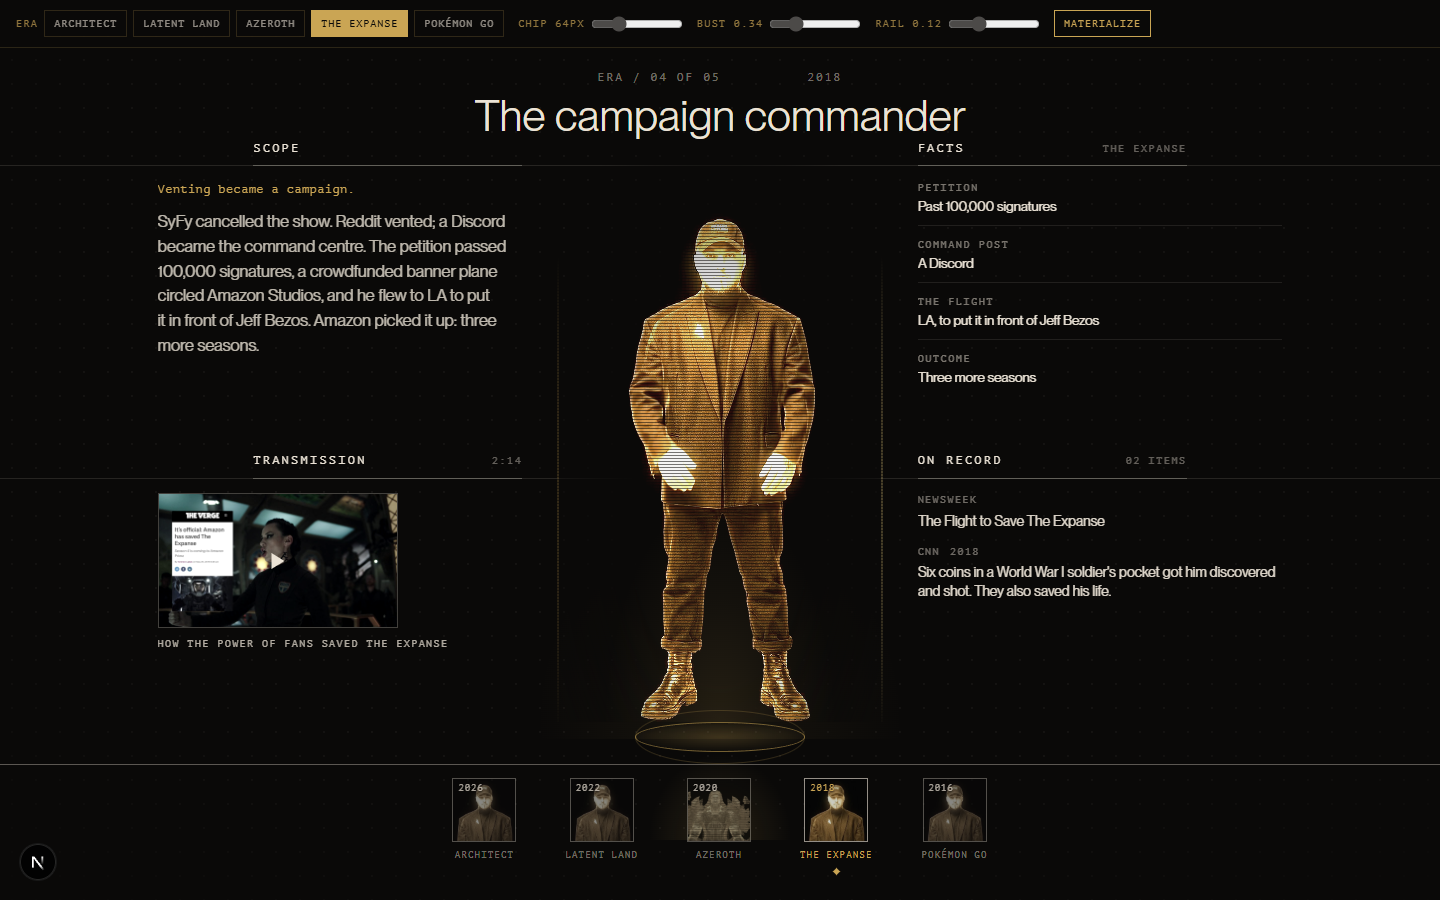
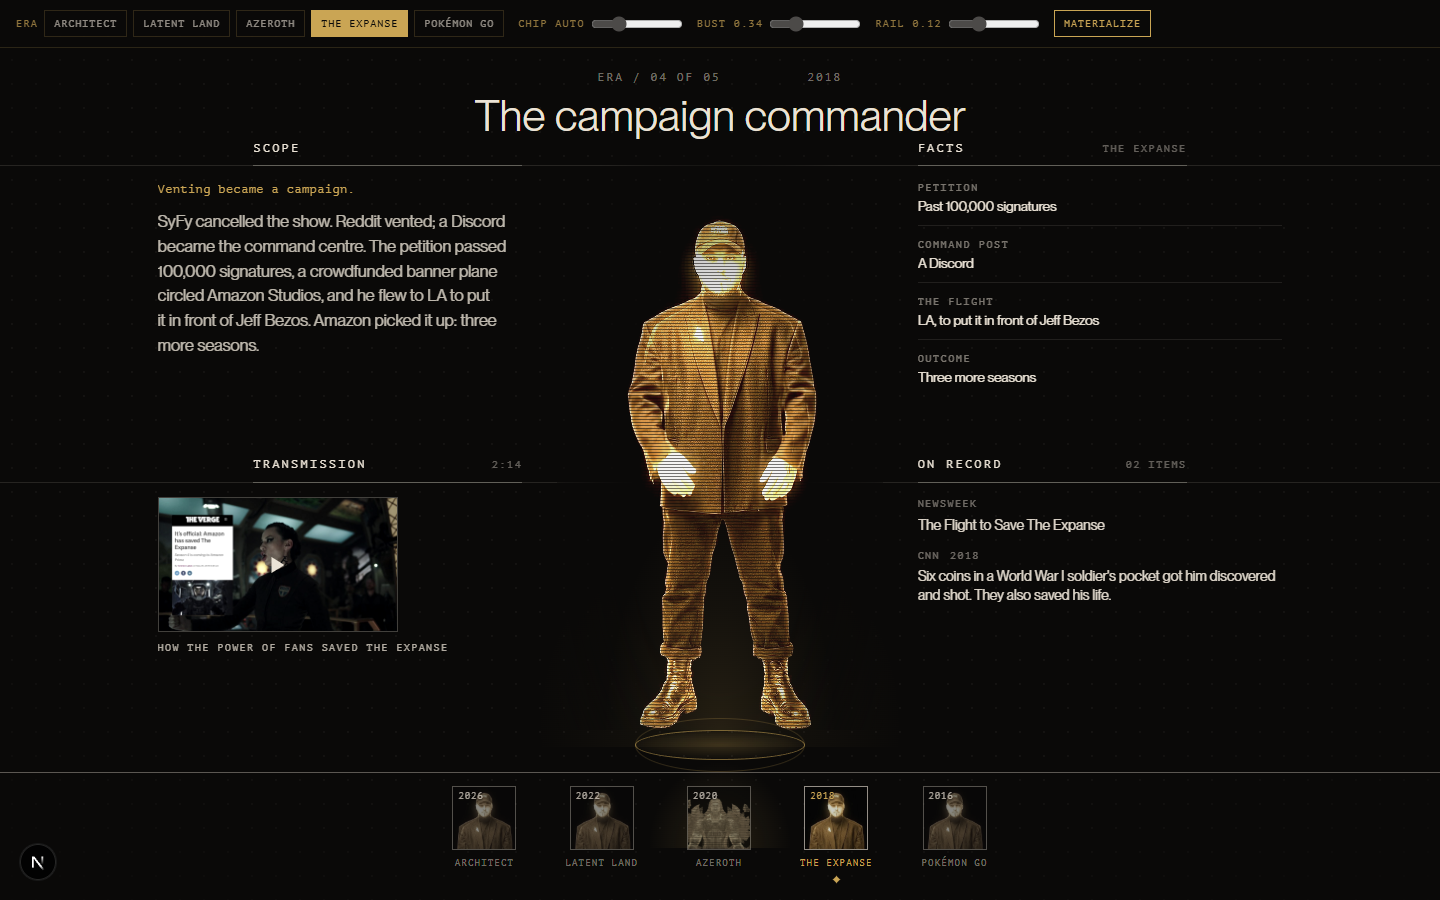
feat(voidwalker): the figure stop is a mark, so the phone stops saying it twice
Owner, on the four-tab phone cut: "do we need those tabs above if we have
corresponding avatars at the bottom?" They were never redundant — the band
picks WHICH ERA, the row picks WHAT YOU READ about it, and deleting either
makes something unreachable (the Pip-Boy reference carries both axes for
the same reason). But both were drawn as a full-width row of equal cells
with a gold active state and a gold marker, so they RHYMED and read as one
control stated twice. The logic was sound and the form was wrong.

FIGURE becomes a drawn mark set apart from three words. A glyph beside
RECORD · SCOPE · TRANSMISSION is plainly not another row of stops, and the
three words are then unambiguously readings. The mark is on the house
particle-icon grammar — rect-only, a 7×7 grid at integer cells, 14px
compact rung, no pictogram — and it draws the figure over its projector
plane, with the DISC carrying the gold because the disc is what is gold on
the stage itself. ⚠ A whole cell of air under the head: packed into
consecutive rows the rects merge into a blob at 14px.

⚠ SELECTING AN ERA DOES NOT RESET THE VIEW. The tighter idea was to drop
the figure stop entirely and let the band mean "show me this era's
figure", but switching era while reading RECORD would then throw the
reading away — and comparing one reading across eras is what a five-stop
band is FOR. The band changes who, the row changes what, the glyph is the
standing way back.
[…]

diff --git a/app/(internal)/test/voidwalker-datum-lab/DatumLabShell.tsx b/app/(internal)/test/voidwalker-datum-lab/DatumLabShell.tsx
@@ -75,8 +75,49 @@ function bustHeadAnchor(hologram: CharacterEraHologram): number {
    no use for this state at all, which is why it is CSS that decides whether
    the tabs mean anything (ADR-083: keep every node mounted, phone
    visibility is a stylesheet decision). */
-const MOBILE_TABS = ["figure", "record", "scope", "transmission"] as const;
-type MobileTab = (typeof MOBILE_TABS)[number];
+/* ⚠ THE FIGURE STOP IS A MARK, THE OTHER THREE ARE WORDS, AND THAT IS THE
+   POINT (owner, 2026-08-31: "do we need those tabs above if we have
+   corresponding avatars at the bottom?"). They were never redundant — the
+   band picks WHICH ERA, the row picks WHAT YOU READ about it — but both were
+   drawn as a full-width row of equal cells with a gold active state, so they
+   rhymed and read as one control said twice. Setting the figure apart as a
+   glyph breaks that: a mark beside three words is plainly not another row of
+   stops, and the three words are then unambiguously READINGS.
+
+   ⚠ SELECTING AN ERA DOES NOT RESET THE VIEW, deliberately. The tighter
+   version of this idea was to drop the figure stop entirely and let the band
+   mean "show me this era's figure" — but then switching era while reading
+   RECORD would throw the reading away, and comparing the same reading across
+   eras is the thing a five-stop band is FOR. The band changes who, the row
+   changes what, and the glyph is the standing way back. */
+const MOBILE_READINGS = ["record", "scope", "transmission"] as const;
+type MobileTab = "figure" | (typeof MOBILE_READINGS)[number];
+
+/**
+ * The figure mark: a standing figure over its projector plane, on the
+ * particle-icon grammar (`thoughtform-design/references/particle-icon-grammar.md`)
+ * — rect-only, a 7×7 grid at integer cells, no text node, no pictogram.
+ * The DISC carries the signal because the disc is the gold object on the real
+ * stage; the body is skeleton. 14px is the grammar's compact rung, and the
+ * 2× viewBox keeps every edge on a device pixel.
+ */
+function FigureGlyph() {
+  return (
+    <svg className="vdl__tab__glyph" viewBox="0 0 7 7" width="14" height="14" aria-hidden="true">
+      {/* head · shoulders · torso · legs — the skeleton. ⚠ A WHOLE CELL OF
+          AIR UNDER THE HEAD: packed into consecutive rows the five rects
+          merge into one blob at 14px and the figure stops being readable as
+          a figure. */}
+      <rect className="vdl__tab__sk" x="3" y="0" width="1" height="1" />
+      <rect className="vdl__tab__sk" x="2" y="2" width="3" height="1" />
+      <rect className="vdl__tab__sk" x="3" y="3" width="1" height="1" />
+      <rect className="vdl__tab__sk" x="2" y="4" width="1" height="1" />
+      <rect className="vdl__tab__sk" x="4" y="4" width="1" height="1" />
+      {/* the projector plane — the signal */}
+      <rect className="vdl__tab__sig" x="1" y="6" width="5" height="1" />
+    </svg>
+  );
+}
 
 function PressItem({ press }: { press: VwPress }) {
   const year = press.date ? press.date.slice(0, 4) : null;
@@ -102,7 +143,14 @@ export function DatumLabShell() {
      every mockup in the pass — so the lab opens where the review left off. */
   const [eraIdx, setEraIdx] = useState(2);
   const [epoch, setEpoch] = useState(0);
-  const [chip, setChip] = useState(64);
+  /* ⚠ NULL UNTIL TOUCHED, because an inline style beats every stylesheet
+     rule including a media query. Seeded at 64 the knob wrote
+     `--vdl-chip: 64px` onto the root on first paint and the phone rung's own
+     `clamp(44px, 13vw, 56px)` never applied — the band rendered at desktop
+     size on a 375px screen, which is the exact thing the slider exists to
+     let the owner judge. A lab knob may not defeat the default it is there
+     to explore. */
+  const [chip, setChip] = useState<number | null>(null);
   const [rail, setRail] = useState(0.12);
   const [bust, setBust] = useState(0.34);
   const [tab, setTab] = useState<MobileTab>("figure");
@@ -148,7 +196,7 @@ export function DatumLabShell() {
       className="vdl"
       style={
         {
-          "--vdl-chip": `${chip}px`,
+          ...(chip === null ? null : { "--vdl-chip": `${chip}px` }),
           "--vdl-rail": rail,
           "--vdl-bust-span": bust,
         } as React.CSSProperties
@@ -171,13 +219,13 @@ export function DatumLabShell() {
         </div>
 
         <label className="vdl__slider">
-          <span className="vdl__lbl">chip {chip}px</span>
+          <span className="vdl__lbl">chip {chip === null ? "auto" : `${chip}px`}</span>
           <input
             type="range"
             min={44}
             max={120}
             step={2}
-            value={chip}
+            value={chip ?? 64}
             onChange={(ev) => setChip(+ev.target.value)}
           />
         </label>
@@ -232,7 +280,21 @@ export function DatumLabShell() {
             No icon chits: they were the heaviest thing on the phone mockup
             and this row has to be the quietest. */}
         <nav className="vdl__tabs" aria-label="Era view">
-          {MOBILE_TABS.map((t) => {
+          {/* The mark, outside the word group. Its accessible name is spoken
+              because a glyph has none — the visual differentiation may not
+              cost a screen reader the label. */}
+          <button
+            type="button"
+            className="vdl__tab vdl__tab--figure"
+            data-on={tab === "figure"}
+            aria-pressed={tab === "figure"}
+            aria-label="Figure"
+            onClick={() => setTab("figure")}
+          >
+            <FigureGlyph />
+          </button>
+
+          {MOBILE_READINGS.map((t) => {
             const unavailable = t === "transmission" && !era.film;
             return (
               <button

diff --git a/app/(internal)/test/voidwalker-datum-lab/voidwalker-datum-lab.css b/app/(internal)/test/voidwalker-datum-lab/voidwalker-datum-lab.css
@@ -640,13 +640,42 @@ a.vdl__press:focus-visible .vdl__press__headline {
     text-wrap: balance;
   }
 
+  /* ⚠ THE MARK TAKES ITS OWN WIDTH, THE WORDS SHARE THE REST. Four equal
+     cells is what made this row rhyme with the era band below it; a narrow
+     glyph cell followed by three equal labels reads as one thing set apart
+     from a group of three, which is what it is. */
   .vdl__tabs {
     display: grid;
-    grid-auto-flow: column;
-    grid-auto-columns: 1fr;
+    grid-template-columns: auto repeat(3, minmax(0, 1fr));
     flex: 0 0 auto;
     border-top: 1px solid rgba(var(--vdl-dawn-rgb), var(--vdl-rail));
     border-bottom: 1px solid rgba(var(--vdl-dawn-rgb), var(--vdl-rail));
+  }
+  .vdl__tab--figure {
+    display: grid;
+    place-items: center;
+    /* 44px of target around a 14px mark. */
+    width: 52px;
+  }
+  .vdl__tab__glyph {
+    display: block;
+    /* ⚠ The grid is authored in whole cells; anything but an integer scale
+       puts a 1-unit rect on a half pixel and the mark goes soft. */
+    shape-rendering: crispEdges;
+  }
+  .vdl__tab__sk {
+    fill: rgba(var(--vdl-dawn-rgb), 0.55);
+  }
+  .vdl__tab__sig {
+    fill: rgba(var(--vdl-dawn-rgb), 0.3);
+  }
+  /* Lit, the disc takes the gold — the same role it carries on the stage
+     itself, so the mark and the drawing agree about what the signal is. */
+  .vdl__tab--figure[data-on="true"] .vdl__tab__sk {
+    fill: rgb(var(--vdl-dawn-rgb));
+  }
+  .vdl__tab--figure[data-on="true"] .vdl__tab__sig {
+    fill: var(--gold, #caa554);
   }
   .vdl__tab {
     appearance: none;
